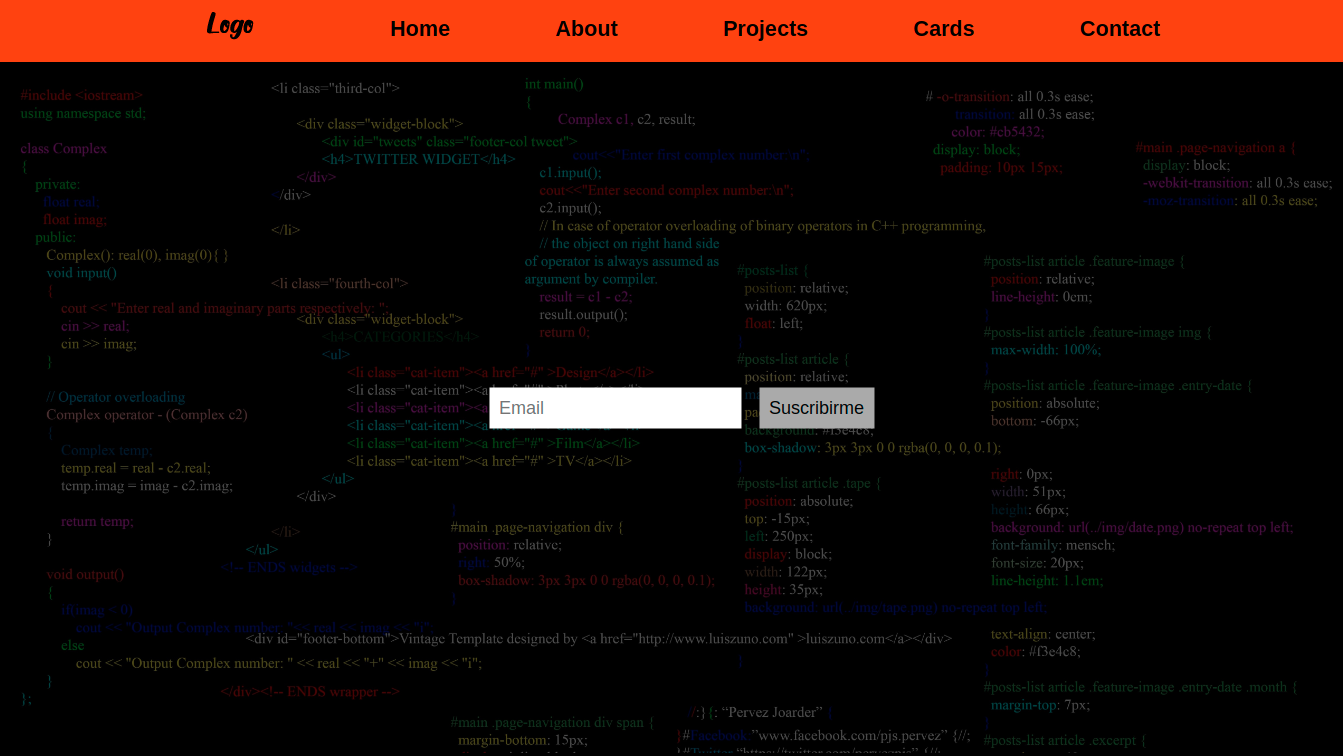
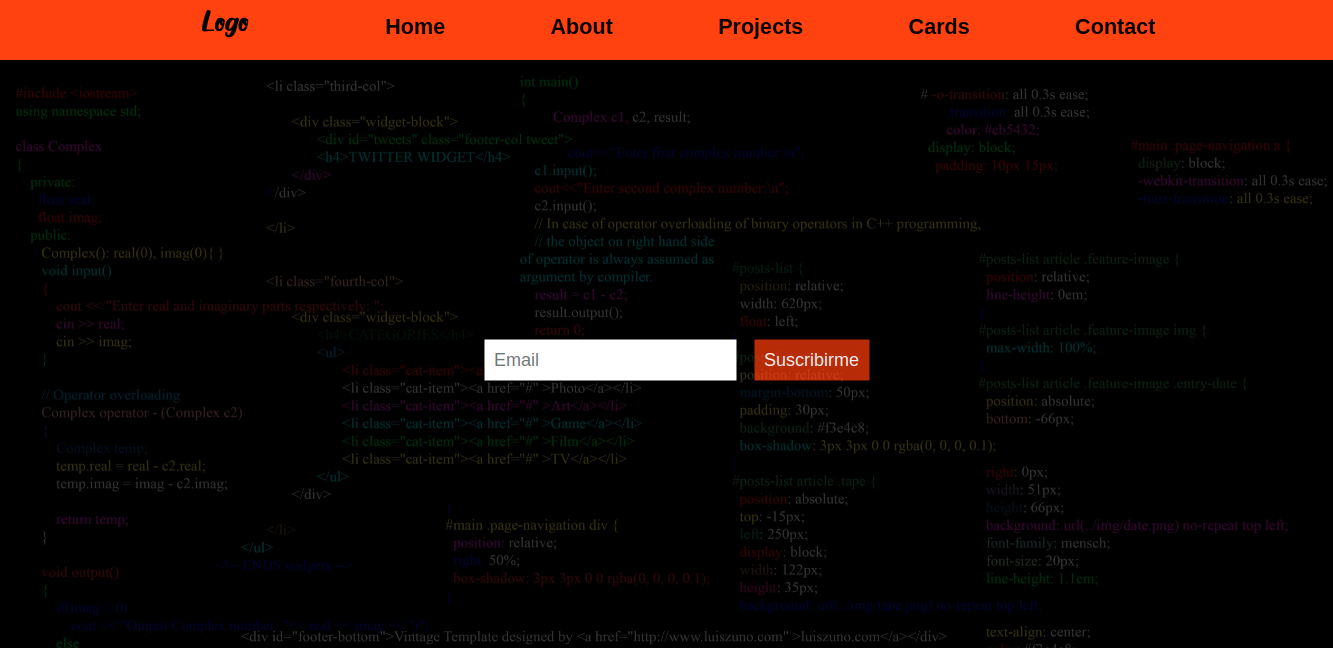
V1.1.1

diff --git a/css/nav.css b/css/nav.css
@@ -1,7 +1,7 @@
 /* navegacion */
 nav {
   width: 100%;
-  background-color: orangered;
+  background-color: var(--main-color);
   padding: 15px 0;
 }
 
@@ -16,48 +16,6 @@ nav {
   margin: auto;
   list-style-type: none;
   font-size: 1.2rem;
-}
-
-/* jumbotron */
-.home {
-  position: relative;
-}
-
-.jumbotron {
-  background-image: url(../img/code.jpg);
-  background-size: cover;
-  background-repeat: no-repeat;
-  height: 90vh;
-  opacity: 20%;
-}
-
-.suscripcion form {
-  display: flex;
-  justify-content: space-between;
-  align-items: center;
-  position: absolute;
-  top: 50%;
-  left: 50%;
-  transform: translate(-50%, -50%);
-}
-
-.input-suscripcion {
-  margin: 0 1rem;
-  padding: 10px;
-}
-
-.btn-suscripcion {
-  height: auto;
-  color: #000;
-  background-color: #aaa;
-  padding: 10px;
-  transition: all .3s ease;
-}
-
-.btn-suscripcion:hover {
-  cursor: pointer;
-  color: #fff;
-  background-color: orangered;
 }
 
 /* media queries */

diff --git a/css/home.css b/css/home.css
@@ -1,5 +1,49 @@
 /* home */
-.home {}
+.home {
+  position: relative;
+}
+
+.jumbotron {
+  background-image: url(../img/code.jpg);
+  background-size: cover;
+  background-repeat: no-repeat;
+  height: 90vh;
+  opacity: 20%;
+}
+
+.suscripcion form {
+  display: flex;
+  justify-content: space-between;
+  align-items: center;
+  position: absolute;
+  top: 50%;
+  left: 50%;
+  transform: translate(-50%, -50%);
+}
+
+.input-suscripcion {
+  margin: 0 1rem;
+  padding: 10px;
+}
+
+.input-suscripcion:focus-visible {
+  outline: 2px solid var(--light-main-color);
+  border-radius: 0;
+}
+
+.btn-suscripcion {
+  height: auto;
+  color: #eee;
+  background-color: var(--light-main-color);
+  padding: 10px;
+  transition: all .3s ease;
+}
+
+.btn-suscripcion:hover {
+  cursor: pointer;
+  color: #fff;
+  background-color: var(--main-color);
+}
 
 /* media queries */
 @media (max-width: 768px) {}

diff --git a/css/footer.css b/css/footer.css
@@ -4,12 +4,11 @@
   justify-content: space-evenly;
   font-size: 1rem;
   font-style: italic;
-  /*text-align: center;*/
   margin-bottom: 20px;
 }
 
 .footer>p {
-  font-size: 16px;
+  font-size: 1rem;
   font-style: italic;
   text-align: center;
 }
@@ -20,7 +19,7 @@
 }
 
 .footer-list>li {
-  line-height: 24px;
+  line-height: 1.25rem;
 }
 
 .footer-list>li:first-child {
@@ -33,6 +32,11 @@
 .footer-list>li>a {
   font-weight: normal;
   color: #ccc;
+}
+
+.footer-list>li>a:hover {
+  font-weight: normal;
+  color: var(--light-main-color);
 }
 
 .company-info {
@@ -51,6 +55,15 @@
   .footer-list>li:first-child {
     border-bottom: none;
   }
+  .footer-list>li {
+    margin: 15px auto;
+  }
 }
-@media (min-width: 768px) {}
+
+@media (min-width: 768px) {
+  .footer-list>li {
+    margin: 10px auto;
+  }
+}
+
 @media (min-width: 992px) {}

diff --git a/js/main.js b/js/main.js
@@ -26,6 +26,7 @@ document.addEventListener('DOMContentLoaded', () => {
         btnSend.innerHTML = 'Enviando...'
         setTimeout(() => {
           btnSend.setAttribute('disabled', 'true')
+          btnSend.setAttribute('title', 'Ya recibimos tu consulta')
           btnSend.innerHTML = '¡Consulta enviada!'
           queryForm.reset()
         }, 3000)
@@ -43,6 +44,9 @@ document.addEventListener('DOMContentLoaded', () => {
         btnSend.innerHTML = 'Registrándo...'
         setTimeout(() => {
           btnSend.setAttribute('disabled', 'true')
+          btnSend.setAttribute('title', 'Ya habilitamos tu suscripción')
+          usersubemail.setAttribute('disabled', 'true')
+          usersubemail.style.background = '#fff'
           btnSend.innerHTML = '¡Suscrito!'
           subsForm.reset()
         }, 3000)

diff --git a/index.html b/index.html
@@ -3,6 +3,7 @@
 <head>
 	<meta charset="UTF-8">
 	<meta name="viewport" content="width=device-width, initial-scale=1.0">
+	<link rel="icon" href="img/N.png">
 	<!-- FontAwesome Icons -->
 	<link rel="stylesheet" href="https://use.fontawesome.com/releases/v5.15.4/css/all.css" integrity="sha384-DyZ88mC6Up2uqS4h/KRgHuoeGwBcD4Ng9SiP4dIRy0EXTlnuz47vAwmeGwVChigm" crossorigin="anonymous">
 	<!-- css -->
@@ -195,6 +196,11 @@
 					<li> 
 						<a href="#projects"> 
 							<i class="fas fa-tasks"></i> Projects
+						</a>
+					</li>
+					<li> 
+						<a href="#cards"> 
+							<i class="fas fa-tasks"></i> Cards
 						</a>
 					</li>
 					<li> 

diff --git a/css/projects.css b/css/projects.css
@@ -37,16 +37,16 @@ div.project {
 
 .desc>h5 {
   text-align: center;
-  font-size: 16px;
-  line-height: 30px;
+  font-size: 1rem;
+  line-height: 1.5rem;
   color: #fff;
 }
 
 .desc>a {
-  display: block;
   color: #fff;
+  display: block;
   text-align: center;
-  font-size: 16px;
+  font-size: 1rem;
 }
 
 /* media queries */
@@ -55,11 +55,13 @@ div.project {
     width: 100%;
   }
 }
+
 @media (min-width: 768px) {
   #projects>div>div {
     width: 45%;
   }
 }
+
 @media (min-width: 992px) {
   #projects>div>div {
     width: 20%;

diff --git a/css/contact.css b/css/contact.css
@@ -9,7 +9,6 @@
 .campo-textarea {
   display: block;
   width: 100%;
-  padding: .5px;
   margin-top: 10px;
 }
 
@@ -43,14 +42,14 @@
   min-width: 100px;
   padding: 10px;
   transition: all .3s ease;
-  color: #fff;
-  background-color: transparent;
+  color: #eee;
+  background-color: var(--light-main-color);
 }
 
 .btn-consulta:hover {
   cursor: pointer;
   color: #fff;
-  background-color: orangered;
+  background-color: var(--main-color);
 }
 
 /* media queries */

diff --git a/css/global.css b/css/global.css
@@ -1,4 +1,9 @@
 /* globales */
+:root {
+  --main-color: rgba(255, 69, 0, 1);
+  --light-main-color: rgba(255, 69, 0, 0.65);
+}
+
 * {
   border: 0;
   margin: 0;
